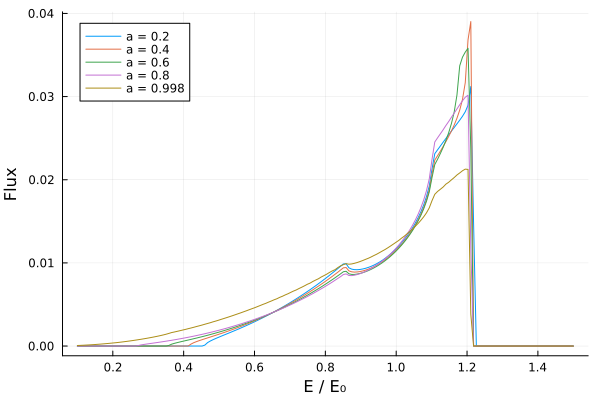
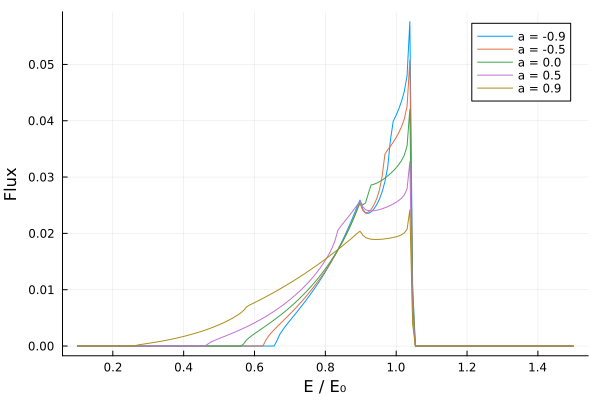
line prof kerr

diff --git a/docs/src/kerr.md b/docs/src/kerr.md
@@ -393,22 +393,23 @@ using Gradus
 using StaticArrays
 using Plots
 
-m = KerrMetric(M = 1.0, a = 0.998) #defines the spacetime
+spins = [-0.9, -0.5, 0.0, 0.5, 0.9]
+d = ThinDisc(0.0, Inf)
+x = SVector(0.0, 10_000.0, deg2rad(30.0), 0.0)
 
-d = ThinDisc(0.0, Inf) #defines the accretion disk. Gradus will start with the emission at the ISCO and extends to infinity
-
-x = SVector(0.0, 10_000.0, deg2rad(60.0), 0.0)#defines the observers position in spacetime (t, r, θ, ϕ)
-
-bins, flux = lineprofile(m, x, d)
-
-fig4 = plot(
-    bins,
-    flux,
-    xlabel = "g = E / E₀",
+plt = Plots.plot(
+    xlabel = "E / E₀",
     ylabel = "Flux",
-    legend = false,
     lw = 2
 )
+
+for a in spins
+    m = KerrMetric(M = 1.0, a = a)
+    bins, flux = lineprofile(m, x, d)
+    Plots.plot!(plt, bins, flux, label = "a = $a")
+end
+
+plt
 ```
 ```@raw html
 </details>
